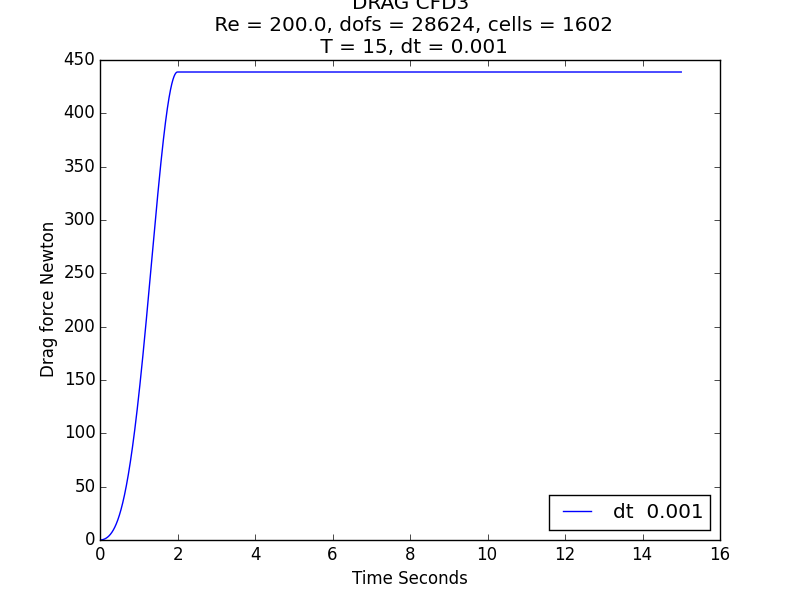
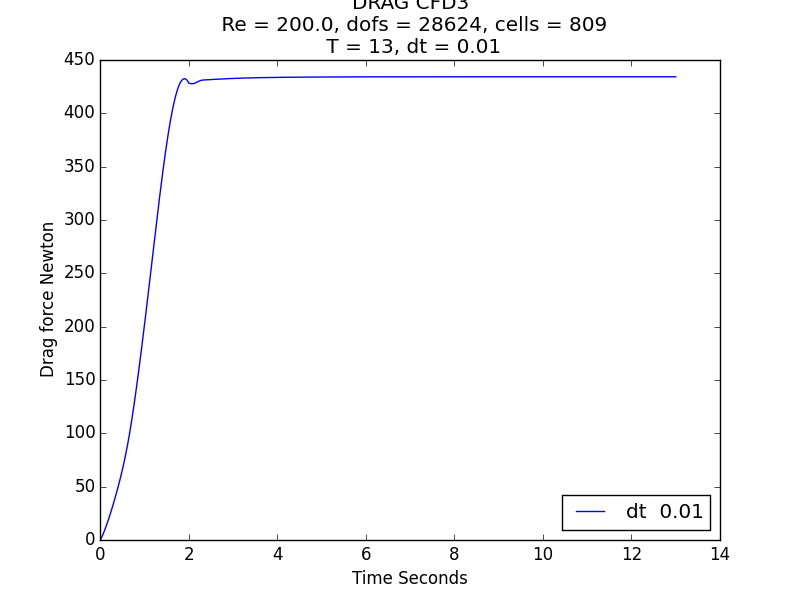
runs

diff --git a/FluidVerification/Turek_Bar/cfd3.py b/FluidVerification/Turek_Bar/cfd3.py
@@ -150,24 +150,24 @@ def fluid(mesh, T, dt, solver, fig, v_deg, p_deg, theta, m):
     	up = Function(VQ)
     	u, p = split(up)
 
-        up0 = Function(VQ)
-    	u0, p0 = split(up)
-        #u0 = Function(V)
+        #up0 = Function(VQ)
+    	#u0, p0 = split(up)
+        u0 = Function(V)
 
         #theta = 1;
     	# Fluid variational form
 
-        F = ( rho/k*inner(u - u0, phi) \
-            + rho*(theta*inner(dot(grad(u), u), phi) + (1 - theta)*inner(dot(grad(u0), u0), phi) ) \
-            + inner(theta*sigma_f(p, u) + (1 - theta)*sigma_f(p0, u0) , grad(phi)) ) *dx \
-            - eta*div(u)*dx
-	"""
+        #F = ( rho/k*inner(u - u0, phi) \
+        #    + rho*(theta*inner(grad(u)*u, phi) + (1 - theta)*inner(grad(u0)*u0, phi) ) \
+        #    + inner(theta*sigma_f(p, u) + (1 - theta)*sigma_f(p0, u0) , grad(phi)) ) *dx \
+        #    - eta*div(u)*dx
+	
 	#WATCH CONVECTIVE TERM FOR LINEARIZATION!!
         F = (rho/k)*inner(u - u0, phi)*dx +\
 			  rho*inner(grad(u)*u, phi)*dx + \
 			  mu*inner(grad(u), grad(phi))*dx - \
 			  div(phi)*p*dx - eta*div(u)*dx
-	"""
+
         J = derivative(F, up)
 
         problem = NonlinearVariationalProblem(F, up, bcs, J)
@@ -197,8 +197,8 @@ def fluid(mesh, T, dt, solver, fig, v_deg, p_deg, theta, m):
 
     		u_, p_ = up.split(True)
             #vel_file << u_
-    		up0.assign(up)
-                #u0.assign(u_)
+    		#up0.assign(up)
+                u0.assign(u_)
 
     		drag, lift =integrateFluidStress(p_, u_)
     		if MPI.rank(mpi_comm_world()) == 0:
